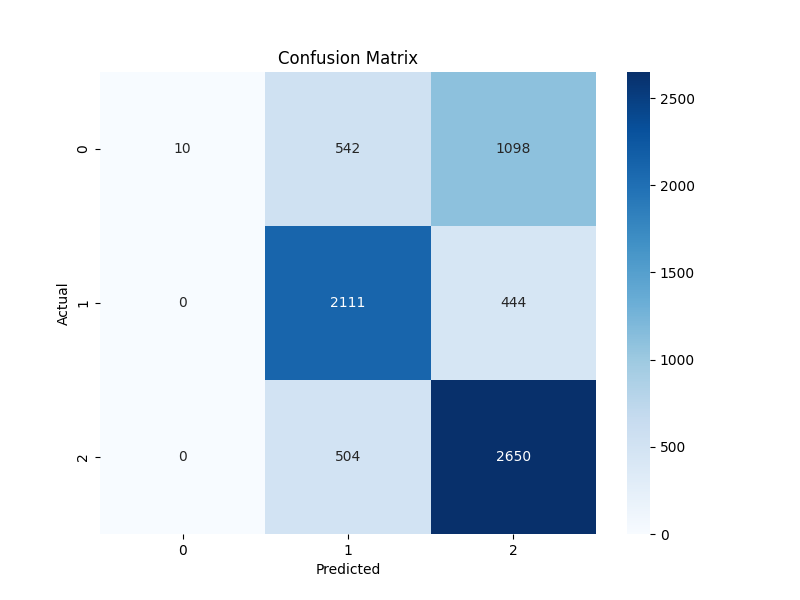
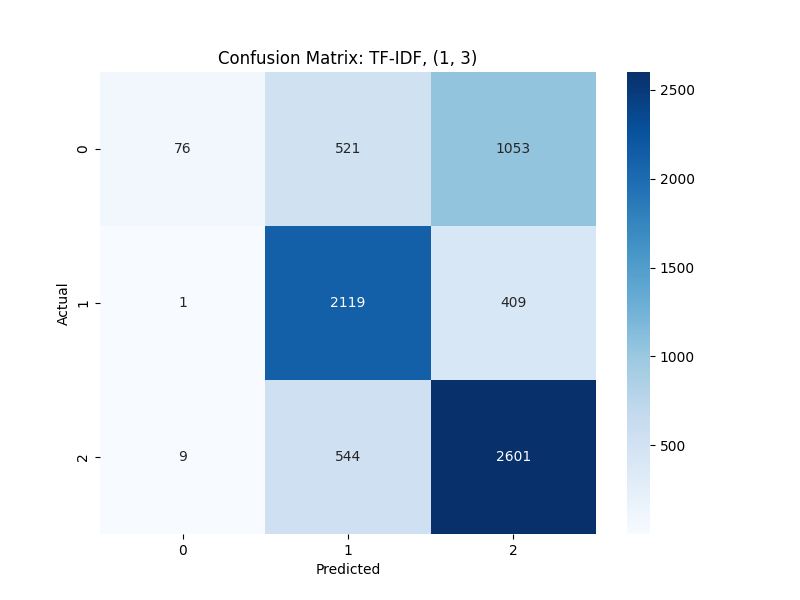
adding model baseline model3 for max_features

diff --git a/baselinemodel2.py b/baselinemodel2.py
@@ -2,11 +2,6 @@ import mlflow
 import dagshub
 import matplotlib.pyplot as plt
 import seaborn as sns
-mlflow.set_tracking_uri("https://dagshub.com/Naman12769/you-tube-comment-analysis.mlflow")
-dagshub.init(repo_owner='Naman12769', repo_name='you-tube-comment-analysis', mlflow=True)
-mlflow.set_experiment("exp2 BOW vs TFIDF")
-
-
 from sklearn.feature_extraction.text import CountVectorizer,TfidfVectorizer
 from sklearn.ensemble import RandomForestClassifier
 from sklearn.model_selection import train_test_split
@@ -16,61 +11,147 @@ import seaborn as sns
 import pandas as pd
 import os
 
+
 df=pd.read_csv('reddit_preprocessing.csv').dropna(subset=['clean_comment'])
 
-def run_experiment(vectorizer_type,ngram_range,vectorizer_max_features,vectorizer_name):
-  if(vectorizer_type=="BOW"):
-    vectorizer=CountVectorizer(ngram_range=ngram_range,max_features=vectorizer_max_features)
-  else:
-    vectorizer=TfidfVectorizer(ngram_range=ngram_range,max_features=vectorizer_max_features)
-  X=vectorizer.fit_transform(df['clean_comment'])
-  y=df['category']
+mlflow.set_tracking_uri("https://dagshub.com/Naman12769/you-tube-comment-analysis.mlflow")
+dagshub.init(repo_owner='Naman12769', repo_name='you-tube-comment-analysis', mlflow=True)
+mlflow.set_experiment("Exp2 BoW vs TFIDF")
 
-  X_train,X_test,y_train,y_test=train_test_split(X,y,test_size=0.2,random_state=42,stratify=y)
+# def run_experiment(vectorizer_type,ngram_range,vectorizer_max_features,vectorizer_name):
+#   if(vectorizer_type=="BoW"):
+#     vectorizer=CountVectorizer(ngram_range=ngram_range,max_features=vectorizer_max_features)
+#   else:
+#     vectorizer=TfidfVectorizer(ngram_range=ngram_range,max_features=vectorizer_max_features)
+#   X=vectorizer.fit_transform(df['clean_comment'])
+#   y=df['category']
 
-  with mlflow.start_run() as run:
-    mlflow.set_tag("mlflow.runName",f"{vectorizer_name}_{ngram_range}_RandomForest")
-    mlflow.set_tag("experiment_type","feature engineering")
-    mlflow.set_tag("model_type","RandomForestClassifier")
-    mlflow.set_tag("description",f"RandomForest with {vectorizer_name}, ngram_range {ngram_range}")
-    mlflow.log_param("vectorizer_type",vectorizer_type)
-    mlflow.log_param("ngram_range",ngram_range)
-    mlflow.log_param("vectorizer max features",vectorizer_max_features)
+#   X_train,X_test,y_train,y_test=train_test_split(X,y,test_size=0.2,random_state=42,stratify=y)
+
+#   with mlflow.start_run() as run:
+#     mlflow.set_tag("mlflow.runName",f"{vectorizer_name}_{ngram_range}_RandomForest")
+#     mlflow.set_tag("experiment_type","feature engineering")
+#     mlflow.set_tag("model_type","RandomForestClassifier")
+#     mlflow.set_tag("description",f"RandomForest with {vectorizer_name}, ngram_range {ngram_range}")
+#     mlflow.log_param("vectorizer_type",vectorizer_type)
+#     mlflow.log_param("ngram_range",ngram_range)
+#     mlflow.log_param("vectorizer max features",vectorizer_max_features)
     
-    n_estimators=200
-    max_Depth=15
+#     n_estimators=200
+#     max_Depth=15
 
-    model=RandomForestClassifier(n_estimators=n_estimators,max_depth=max_Depth,random_state=42)
-    model.fit(X_train,y_train)
+#     model=RandomForestClassifier(n_estimators=n_estimators,max_depth=max_Depth,random_state=42)
+#     model.fit(X_train,y_train)
 
-    y_pred=model.predict(X_test)
-    accuracy_score=accuracy_score(y_pred,y_test)
-    mlflow.log_metric("accuracy",accuracy_score)
+#     y_pred=model.predict(X_test)
+#     accuracy_score=accuracy_score(y_pred,y_test)
+#     mlflow.log_metric("accuracy",accuracy_score)
 
-    classification_rep=classification_report(y_test,y_pred,output_dict=True)
+#     classification_rep=classification_report(y_test,y_pred,output_dict=True)
 
-    for label,metrics in classification_rep:
-      if(isinstance(metrics,dict)):
-        for metric,value in metrics.items():
-          mlflow.log_metric(f"{label}_{metric}",value)
-    conf_matrix=confusion_matrix(y_test,y_pred)
-    plt.figure(figsize=(8,6))
-    sns.heatmap(conf_matrix,annot=True,fmt="d",cmap="Blues")
-    plt.xlabel("Predicted")
-    plt.ylabel("Actual")
-    plt.title(f"confusion matrix: {vectorizer_name},{ngram_range}")
-    plt.savefig("confusion_matrix.png")
-    mlflow.log_artifact("confusion_matrix.png")
-    plt.close()
+#     for label,metrics in classification_rep:
+#       if(isinstance(metrics,dict)):
+#         for metric,value in metrics.items():
+#           mlflow.log_metric(f"{label}_{metric}",value)
+#     conf_matrix=confusion_matrix(y_test,y_pred)
+#     plt.figure(figsize=(8,6))
+#     sns.heatmap(conf_matrix,annot=True,fmt="d",cmap="Blues")
+#     plt.xlabel("Predicted")
+#     plt.ylabel("Actual")
+#     plt.title(f"confusion matrix: {vectorizer_name},{ngram_range}")
+#     plt.savefig("confusion_matrix.png")
+#     mlflow.log_artifact("confusion_matrix.png")
+#     plt.close()
 
-    mlflow.sklearn.log_model(model,f"random _forest_model_{vectorizer_name}_{ngram_range}")
+#     mlflow.sklearn.log_model(model,f"random _forest_model_{vectorizer_name}_{ngram_range}")
 
-  ngram_ranges=[(1,1),(1,2),(1,3)]
-  max_features=5000
+#   ngram_ranges=[(1,1),(1,2),(1,3)]
+#   max_features=5000
 
-  for ngram_range in ngram_ranges:
-    run_experiment("BOW",ngram_range,max_features,vectorizer_name="BOW")
-    run_experiment("TF_IDF",ngram_range,max_features,vectorizer_name="TF_IDF")
+#   for ngram_range in ngram_ranges:
+#     run_experiment("BoW",ngram_range,max_features,vectorizer_name="BoW")
+#     run_experiment("TF_IDF",ngram_range,max_features,vectorizer_name="TF_IDF")
 
+
+# Step 1: Function to run the experiment
+def run_experiment(vectorizer_type, ngram_range, vectorizer_max_features, vectorizer_name):
+    # Step 2: Vectorization
+    if vectorizer_type == "BoW":
+        vectorizer = CountVectorizer(ngram_range=ngram_range, max_features=vectorizer_max_features)
+    else:
+        vectorizer = TfidfVectorizer(ngram_range=ngram_range, max_features=vectorizer_max_features)
+
+    X_train, X_test, y_train, y_test = train_test_split(df['clean_comment'], df['category'], test_size=0.2, random_state=42, stratify=df['category'])
+
+    X_train = vectorizer.fit_transform(X_train)
+    X_test = vectorizer.transform(X_test)
+
+    # Step 4: Define and train a Random Forest model
+    with mlflow.start_run() as run:
+        # Set tags for the experiment and run
+        mlflow.set_tag("mlflow.runName", f"{vectorizer_name}_{ngram_range}_RandomForest")
+        mlflow.set_tag("experiment_type", "feature_engineering")
+        mlflow.set_tag("model_type", "RandomForestClassifier")
+
+        # Add a description
+        mlflow.set_tag("description", f"RandomForest with {vectorizer_name}, ngram_range={ngram_range}, max_features={vectorizer_max_features}")
+
+        # Log vectorizer parameters
+        mlflow.log_param("vectorizer_type", vectorizer_type)
+        mlflow.log_param("ngram_range", ngram_range)
+        mlflow.log_param("vectorizer_max_features", vectorizer_max_features)
+
+        # Log Random Forest parameters
+        n_estimators = 200
+        max_depth = 15
+
+        mlflow.log_param("n_estimators", n_estimators)
+        mlflow.log_param("max_depth", max_depth)
+
+        # Initialize and train the model
+        model = RandomForestClassifier(n_estimators=n_estimators, max_depth=max_depth, random_state=42)
+        model.fit(X_train, y_train)
+
+        # Step 5: Make predictions and log metrics
+        y_pred = model.predict(X_test)
+
+        # Log accuracy
+        accuracy = accuracy_score(y_test, y_pred)
+        mlflow.log_metric("accuracy", accuracy)
+
+        # Log classification report
+        classification_rep = classification_report(y_test, y_pred, output_dict=True)
+        for label, metrics in classification_rep.items():
+            if isinstance(metrics, dict):
+                for metric, value in metrics.items():
+                    mlflow.log_metric(f"{label}_{metric}", value)
+                print(metric,value)
+            print(label)
+            print(metrics)
+
+        # Log confusion matrix
+        conf_matrix = confusion_matrix(y_test, y_pred)
+        plt.figure(figsize=(8, 6))
+        sns.heatmap(conf_matrix, annot=True, fmt="d", cmap="Blues")
+        plt.xlabel("Predicted")
+        plt.ylabel("Actual")
+        plt.title(f"Confusion Matrix: {vectorizer_name}, {ngram_range}")
+        plt.savefig("confusion_matrix.png")
+        mlflow.log_artifact("confusion_matrix.png")
+        plt.close()
+
+        # Log the model
+        mlflow.sklearn.log_model(model, f"random_forest_model_{vectorizer_name}_{ngram_range}")
+
+# Step 6: Run experiments for BoW and TF-IDF with different n-grams
+ngram_ranges = [(1, 1), (1, 2), (1, 3)]  # unigrams, bigrams, trigrams
+max_features = 5000  # Example max feature size
+
+for ngram_range in ngram_ranges:
+    # BoW Experiments
+    run_experiment("BoW", ngram_range, max_features, vectorizer_name="BoW")
+
+    # TF-IDF Experiments
+    run_experiment("TF-IDF", ngram_range, max_features, vectorizer_name="TF-IDF")
 
 

diff --git a/baselinemodel3.py b/baselinemodel3.py
@@ -1,0 +1,93 @@
+import mlflow
+import dagshub
+import matplotlib.pyplot as plt
+import seaborn as sns
+from sklearn.feature_extraction.text import CountVectorizer,TfidfVectorizer
+from sklearn.ensemble import RandomForestClassifier
+from sklearn.model_selection import train_test_split
+from sklearn.metrics import accuracy_score,classification_report,confusion_matrix
+import mlflow.sklearn
+import seaborn as sns
+import pandas as pd
+import os
+
+
+df=pd.read_csv('reddit_preprocessing.csv').dropna(subset=['clean_comment'])
+
+mlflow.set_tracking_uri("https://dagshub.com/Naman12769/you-tube-comment-analysis.mlflow")
+dagshub.init(repo_owner='Naman12769', repo_name='you-tube-comment-analysis', mlflow=True)
+mlflow.set_experiment("Exp3 Tfidf max_features")
+
+# Step 1: Function to run the experiment
+def run_experiment_tfidf_max_features(max_features):
+    ngram_range = (1, 3)  # Trigram setting
+
+    # Step 2: Vectorization using TF-IDF with varying max_features
+    vectorizer = TfidfVectorizer(ngram_range=ngram_range, max_features=max_features)
+
+    X_train, X_test, y_train, y_test = train_test_split(df['clean_comment'], df['category'], test_size=0.2, random_state=42, stratify=df['category'])
+
+    X_train = vectorizer.fit_transform(X_train)
+    X_test = vectorizer.transform(X_test)
+
+    # Step 4: Define and train a Random Forest model
+    with mlflow.start_run() as run:
+        # Set tags for the experiment and run
+        mlflow.set_tag("mlflow.runName", f"TFIDF_Trigrams_max_features_{max_features}")
+        mlflow.set_tag("experiment_type", "feature_engineering")
+        mlflow.set_tag("model_type", "RandomForestClassifier")
+
+        # Add a description
+        mlflow.set_tag("description", f"RandomForest with TF-IDF Trigrams, max_features={max_features}")
+
+        # Log vectorizer parameters
+        mlflow.log_param("vectorizer_type", "TF-IDF")
+        mlflow.log_param("ngram_range", ngram_range)
+        mlflow.log_param("vectorizer_max_features", max_features)
+
+        # Log Random Forest parameters
+        n_estimators = 200
+        max_depth = 15
+
+        mlflow.log_param("n_estimators", n_estimators)
+        mlflow.log_param("max_depth", max_depth)
+
+        # Initialize and train the model
+        model = RandomForestClassifier(n_estimators=n_estimators, max_depth=max_depth, random_state=42)
+        model.fit(X_train, y_train)
+
+        # Step 5: Make predictions and log metrics
+        y_pred = model.predict(X_test)
+
+        # Log accuracy
+        accuracy = accuracy_score(y_test, y_pred)
+        mlflow.log_metric("accuracy", accuracy)
+
+        # Log classification report
+        classification_rep = classification_report(y_test, y_pred, output_dict=True)
+        for label, metrics in classification_rep.items():
+            if isinstance(metrics, dict):
+                for metric, value in metrics.items():
+                    mlflow.log_metric(f"{label}_{metric}", value)
+
+        # Log confusion matrix
+        conf_matrix = confusion_matrix(y_test, y_pred)
+        plt.figure(figsize=(8, 6))
+        sns.heatmap(conf_matrix, annot=True, fmt="d", cmap="Blues")
+        plt.xlabel("Predicted")
+        plt.ylabel("Actual")
+        plt.title(f"Confusion Matrix: TF-IDF Trigrams, max_features={max_features}")
+        plt.savefig("confusion_matrix.png")
+        mlflow.log_artifact("confusion_matrix.png")
+        plt.close()
+
+        # Log the model
+        mlflow.sklearn.log_model(model, f"random_forest_model_tfidf_trigrams_{max_features}")
+
+# Step 6: Test various max_features values
+max_features_values = [1000, 2000, 3000, 4000, 5000, 6000, 7000, 8000, 9000, 10000]
+
+for max_features in max_features_values:
+    run_experiment_tfidf_max_features(max_features)
+
+
